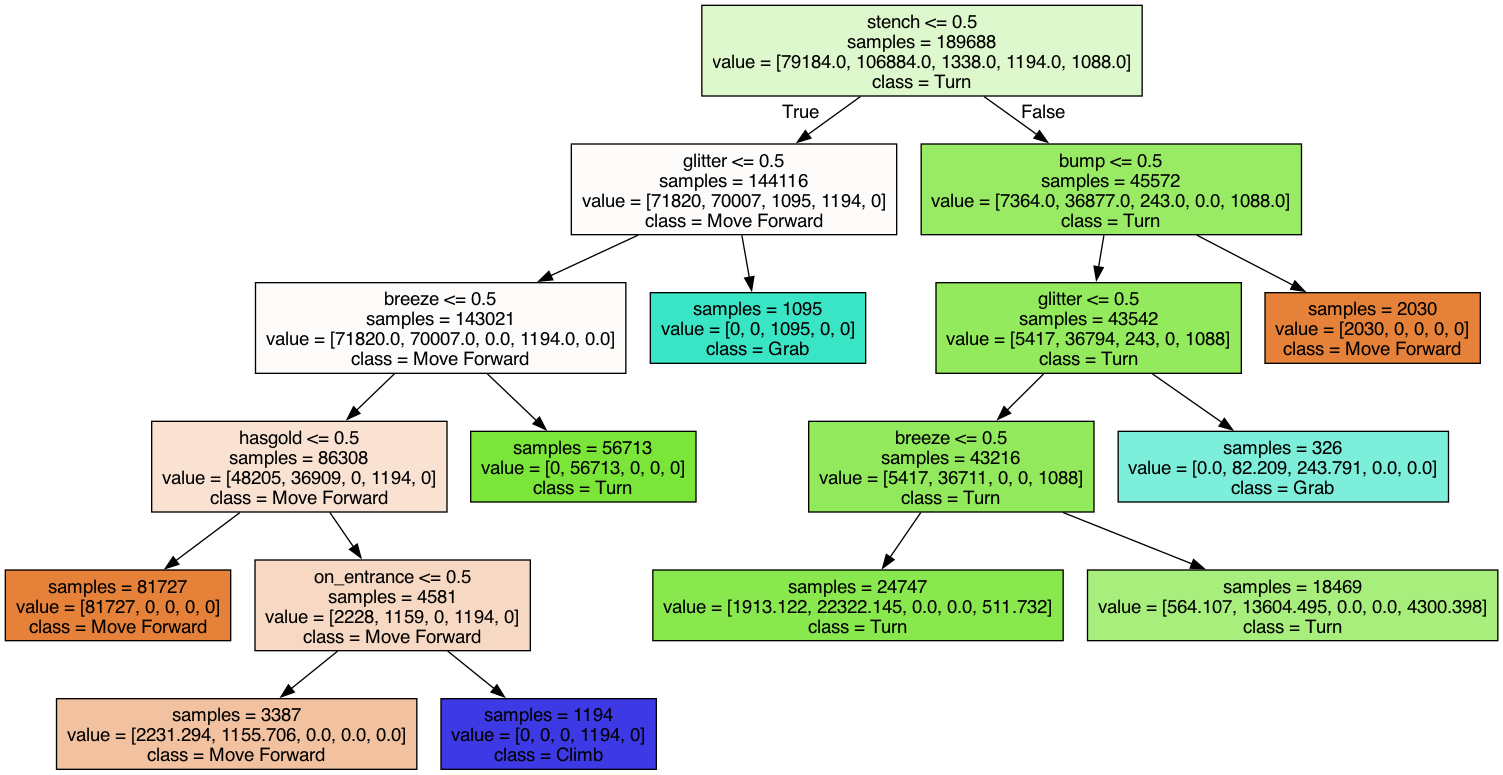
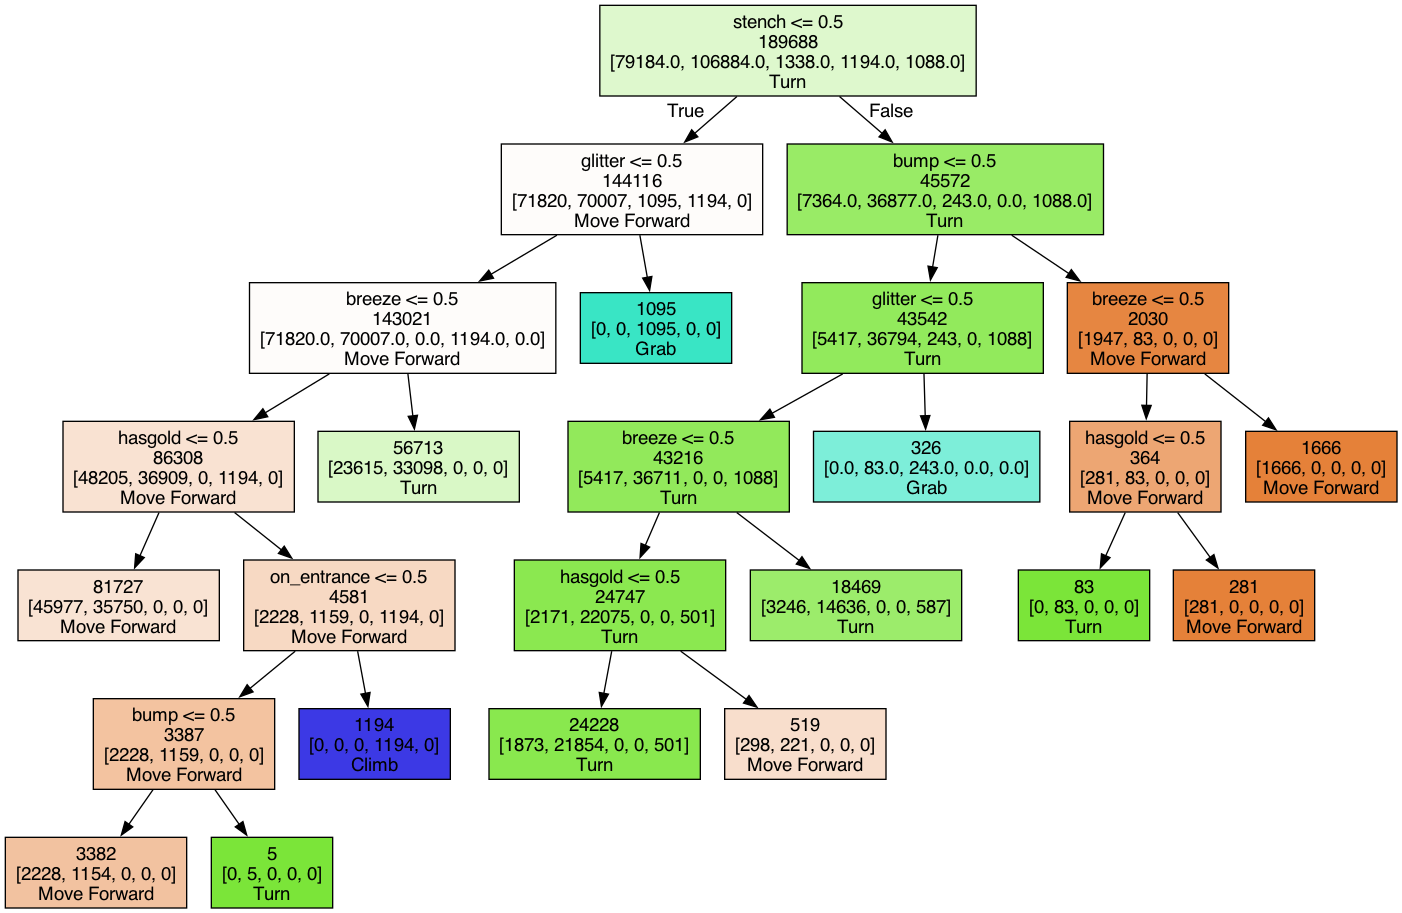
Prune leafs if they are the same class as the parent node and also add saving tree logic to png instead of txt

diff --git a/logic_extraction/decision_tree/decision_tree.py b/logic_extraction/decision_tree/decision_tree.py
@@ -5,38 +5,31 @@ from sklearn.model_selection import train_test_split
 from sklearn.metrics import accuracy_score
 import copy
 
-def compute_parents(tree):
-    parents = [-1] * tree.node_count  # Initialize parent array with -1
-    for i in range(tree.node_count):
-        left_child = tree.children_left[i]
-        right_child = tree.children_right[i]
-        if left_child != -1:  # If the node has a left child
-            parents[left_child] = i
-        if right_child != -1:  # If the node has a right child
-            parents[right_child] = i
-    return parents
-
 def prune_tree(org_tree: DecisionTreeClassifier):
     tree = copy.deepcopy(org_tree.tree_)
-    parents = compute_parents(tree)  # Compute parent nodes
 
-    # Prune the tree by removing leafs if they are the same class as the parent node
-    for node in range(tree.node_count):
-        if tree.children_left[node] == tree.children_right[node]:  # Leaf node
-            parent = parents[node]
-            if parent != -1 and tree.value[node].argmax() == tree.value[parent].argmax():
-                # Prune the leaf node
-                tree.children_left[parent] = -1
-                tree.children_right[parent] = -1
-                tree.value[parent] = tree.value[node]
+    nodes = range(0, tree.node_count)
+    ls = tree.children_left
+    rs = tree.children_right
+    classes = [[list(e).index(max(e)) for e in v] for v in tree.value]
 
-    org_tree = copy.deepcopy(org_tree)
-    org_tree.tree_ = tree
+    leaves = [(ls[i] == rs[i]) for i in nodes]
 
-    return org_tree
+    LEAF = -1
+    for i in reversed(nodes):
+        if leaves[i]:
+            continue
+        if leaves[ls[i]] and leaves[rs[i]] and classes[ls[i]] == classes[rs[i]]:
+            ls[i] = rs[i] = LEAF
+            leaves[i] = True
+
+    pruned_tree = copy.deepcopy(org_tree)
+    pruned_tree.tree_ = tree
+
+    return pruned_tree
 
 # Load dataset
-df = pd.read_csv("../datasets/fol_3pit_random_map_dataset.csv")
+df = pd.read_csv("../datasets/dqn_3pit_random_map_dataset.csv")
 X = df[["stench", "breeze", "glitter", "bump", "scream", "hasgold", "on_entrance"]]
 y = df["action"]
 
